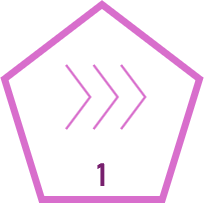
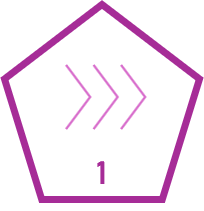
update chit card skip and swap assets to improve contrast of chit card outline

diff --git a/Sprint3_Game/settings.py b/Sprint3_Game/settings.py
@@ -5,7 +5,7 @@
 # REQUESTED_SCREEN_SIZE
 # For Windows - Screen size of the game will automatically adjust to your shortest dimension (height / width) if exceeded
 # For other OS - Specifies the screen size directly
-REQUESTED_SCREEN_SIZE = 1600
+REQUESTED_SCREEN_SIZE = 2000
 
 # SCREEN_BACKGROUND_COLOUR
 # Screen background colour in (R, G, B)
